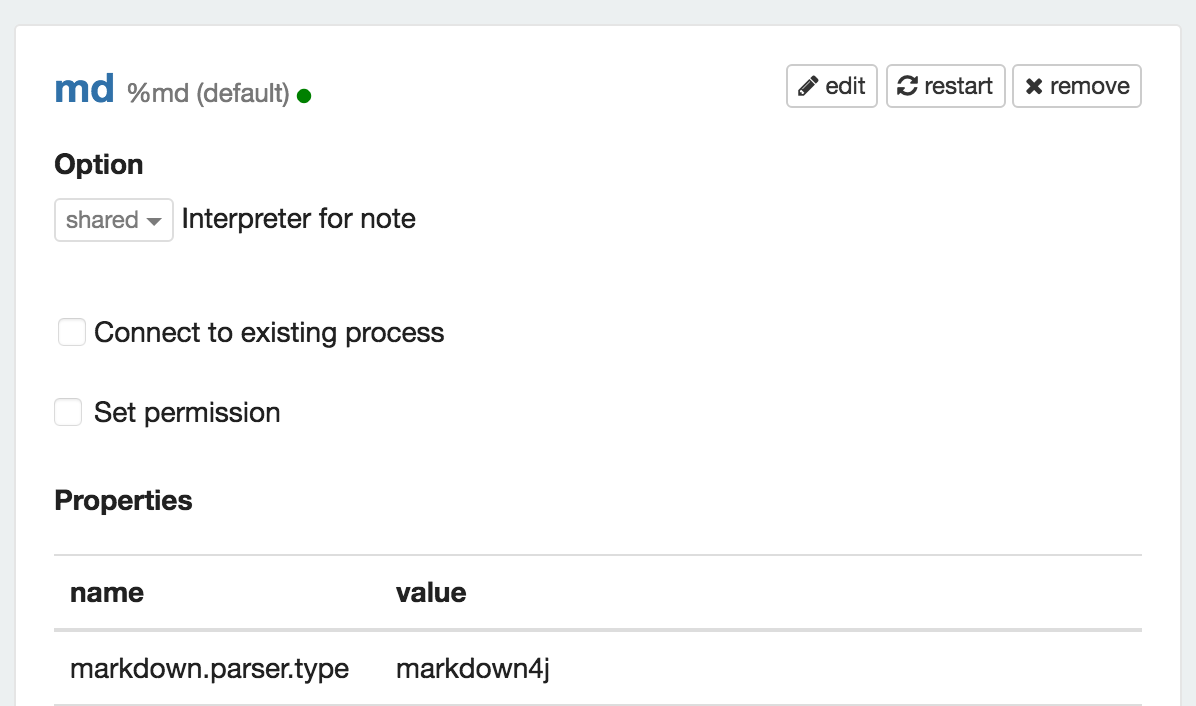
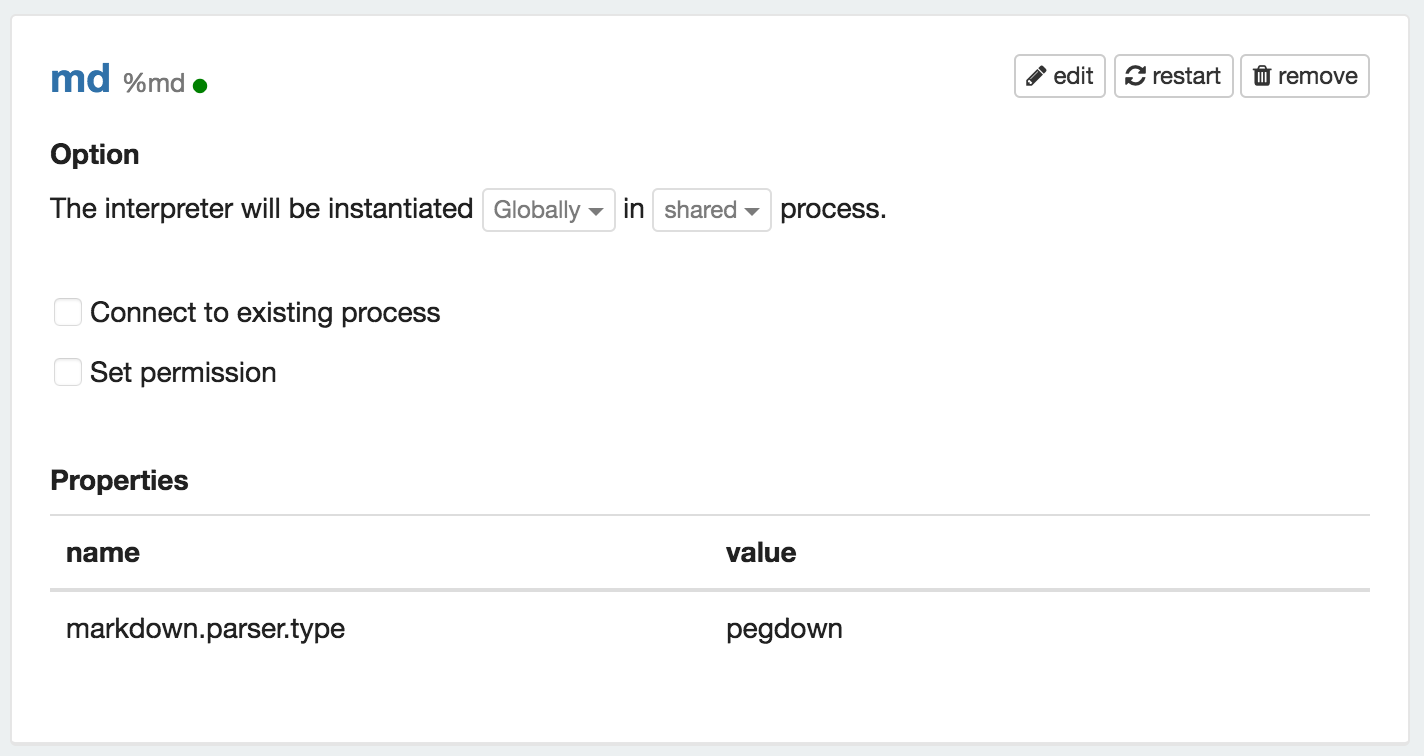
Update: interpreter setting and docs

diff --git a/docs/interpreter/markdown.md b/docs/interpreter/markdown.md
@@ -25,11 +25,11 @@ limitations under the License.
 
 ## Overview
 [Markdown](http://daringfireball.net/projects/markdown/) is a plain text formatting syntax designed so that it can be converted to HTML.
-Apache Zeppelin uses [markdown4j](https://github.com/jdcasey/markdown4j) and [pegdown](https://github.com/sirthias/pegdown) as markdown parsers.
+Apache Zeppelin uses [pegdown](https://github.com/sirthias/pegdown) and [markdown4j](https://github.com/jdcasey/markdown4j) as markdown parsers.
 
 In Zeppelin notebook, you can use ` %md ` in the beginning of a paragraph to invoke the Markdown interpreter and generate static html from Markdown plain text.
 
-In Zeppelin, Markdown interpreter is enabled by default and uses the [markdown4j](https://github.com/jdcasey/markdown4j) parser.
+In Zeppelin, Markdown interpreter is enabled by default and uses the [pegdown](https://github.com/sirthias/pegdown) parser.
 
 <img src="../assets/themes/zeppelin/img/docs-img/markdown-interpreter-setting.png" width="60%" />
 
@@ -42,8 +42,8 @@ In Zeppelin, Markdown interpreter is enabled by default and uses the [markdown4j
   </tr>
   <tr>
     <td>markdown.parser.type</td>
-    <td>markdown4j</td>
-    <td>Markdown Parser Type. <br/> Available values: markdown4j, pegdown.</td>
+    <td>pegdown</td>
+    <td>Markdown Parser Type. <br/> Available values: pegdown, markdown4j.</td>
   </tr>
 </table>
 
@@ -57,16 +57,17 @@ The following example demonstrates the basic usage of Markdown in a Zeppelin not
 
 Markdown interpreter leverages %html display system internally. That means you can mix mathematical expressions with markdown syntax. For more information, please see [Mathematical Expression](../displaysystem/basicdisplaysystem.html#mathematical-expressions) section.
 
-### Markdown4j Parser
-
-The markdown interpreter provides github flavored markdown.
-
-`markdown4j` parser provides [YUML](http://yuml.me/) and [Websequence](https://www.websequencediagrams.com/) extensions 
-
-<img src="../assets/themes/zeppelin/img/docs-img/markdown-example-markdown4j-parser.png" width="70%" />
-
 ### Pegdown Parser
 
 `pegdown` parser provides github flavored markdown.
 
 <img src="../assets/themes/zeppelin/img/docs-img/markdown-example-pegdown-parser.png" width="70%" />
+
+`pegdown` parser provides [YUML](http://yuml.me/) and [Websequence](https://www.websequencediagrams.com/) plugins also. 
+
+<img src="../assets/themes/zeppelin/img/docs-img/markdown-example-pegdown-parser-plugins.png" width="70%" />
+
+### Markdown4j Parser
+
+Keeps for the backward compatibility
+

diff --git a/STYLE.md b/STYLE.md
@@ -7,7 +7,7 @@ app/styles/looknfeel
 Overall look and theme of the Zeppelin notebook page can be customized here.
 
 ### Code Syntax Highlighting
-There are two parts to code highlighting. First, Zeppelin uses the Ace Editor for its note paragraphs. Color style for this can be changed by setting theme on the editor instance. Second, Zeppelin's Markdown interpreter calls markdown4j to emit HTML, and such content may contain &lt;pre&gt;&lt;code&gt; tags that can be consumed by Highlight.js.
+There are two parts to code highlighting. First, Zeppelin uses the Ace Editor for its note paragraphs. Color style for this can be changed by setting theme on the editor instance. Second, Zeppelin's Markdown interpreter calls pegdown parser to emit HTML, and such content may contain &lt;pre&gt;&lt;code&gt; tags that can be consumed by Highlight.js.
 
 #### Theme on Ace Editor
 app/scripts/controllers/paragraph.js  
@@ -16,7 +16,7 @@ Call setTheme on the editor with the theme path/name.
 [List of themes on GitHub](https://github.com/ajaxorg/ace/tree/master/lib/ace/theme)
 
 #### Style for Markdown Code Blocks
-Highlight.js parses and converts &lt;pre&gt;&lt;code&gt; blocks from markdown4j into keywords and language syntax with proper styles. It also attempts to infer the best fitting language if it is not provided. The visual style can be changed by simply including the desired [stylesheet](https://github.com/components/highlightjs/tree/master/styles) into app/index.html. See the next section on build.
+Highlight.js parses and converts &lt;pre&gt;&lt;code&gt; blocks from pegdown parser into keywords and language syntax with proper styles. It also attempts to infer the best fitting language if it is not provided. The visual style can be changed by simply including the desired [stylesheet](https://github.com/components/highlightjs/tree/master/styles) into app/index.html. See the next section on build.
 
 Note that code block background color is overriden in app/styles/notebook.css (look for .paragraph .tableDisplay .hljs).
 
